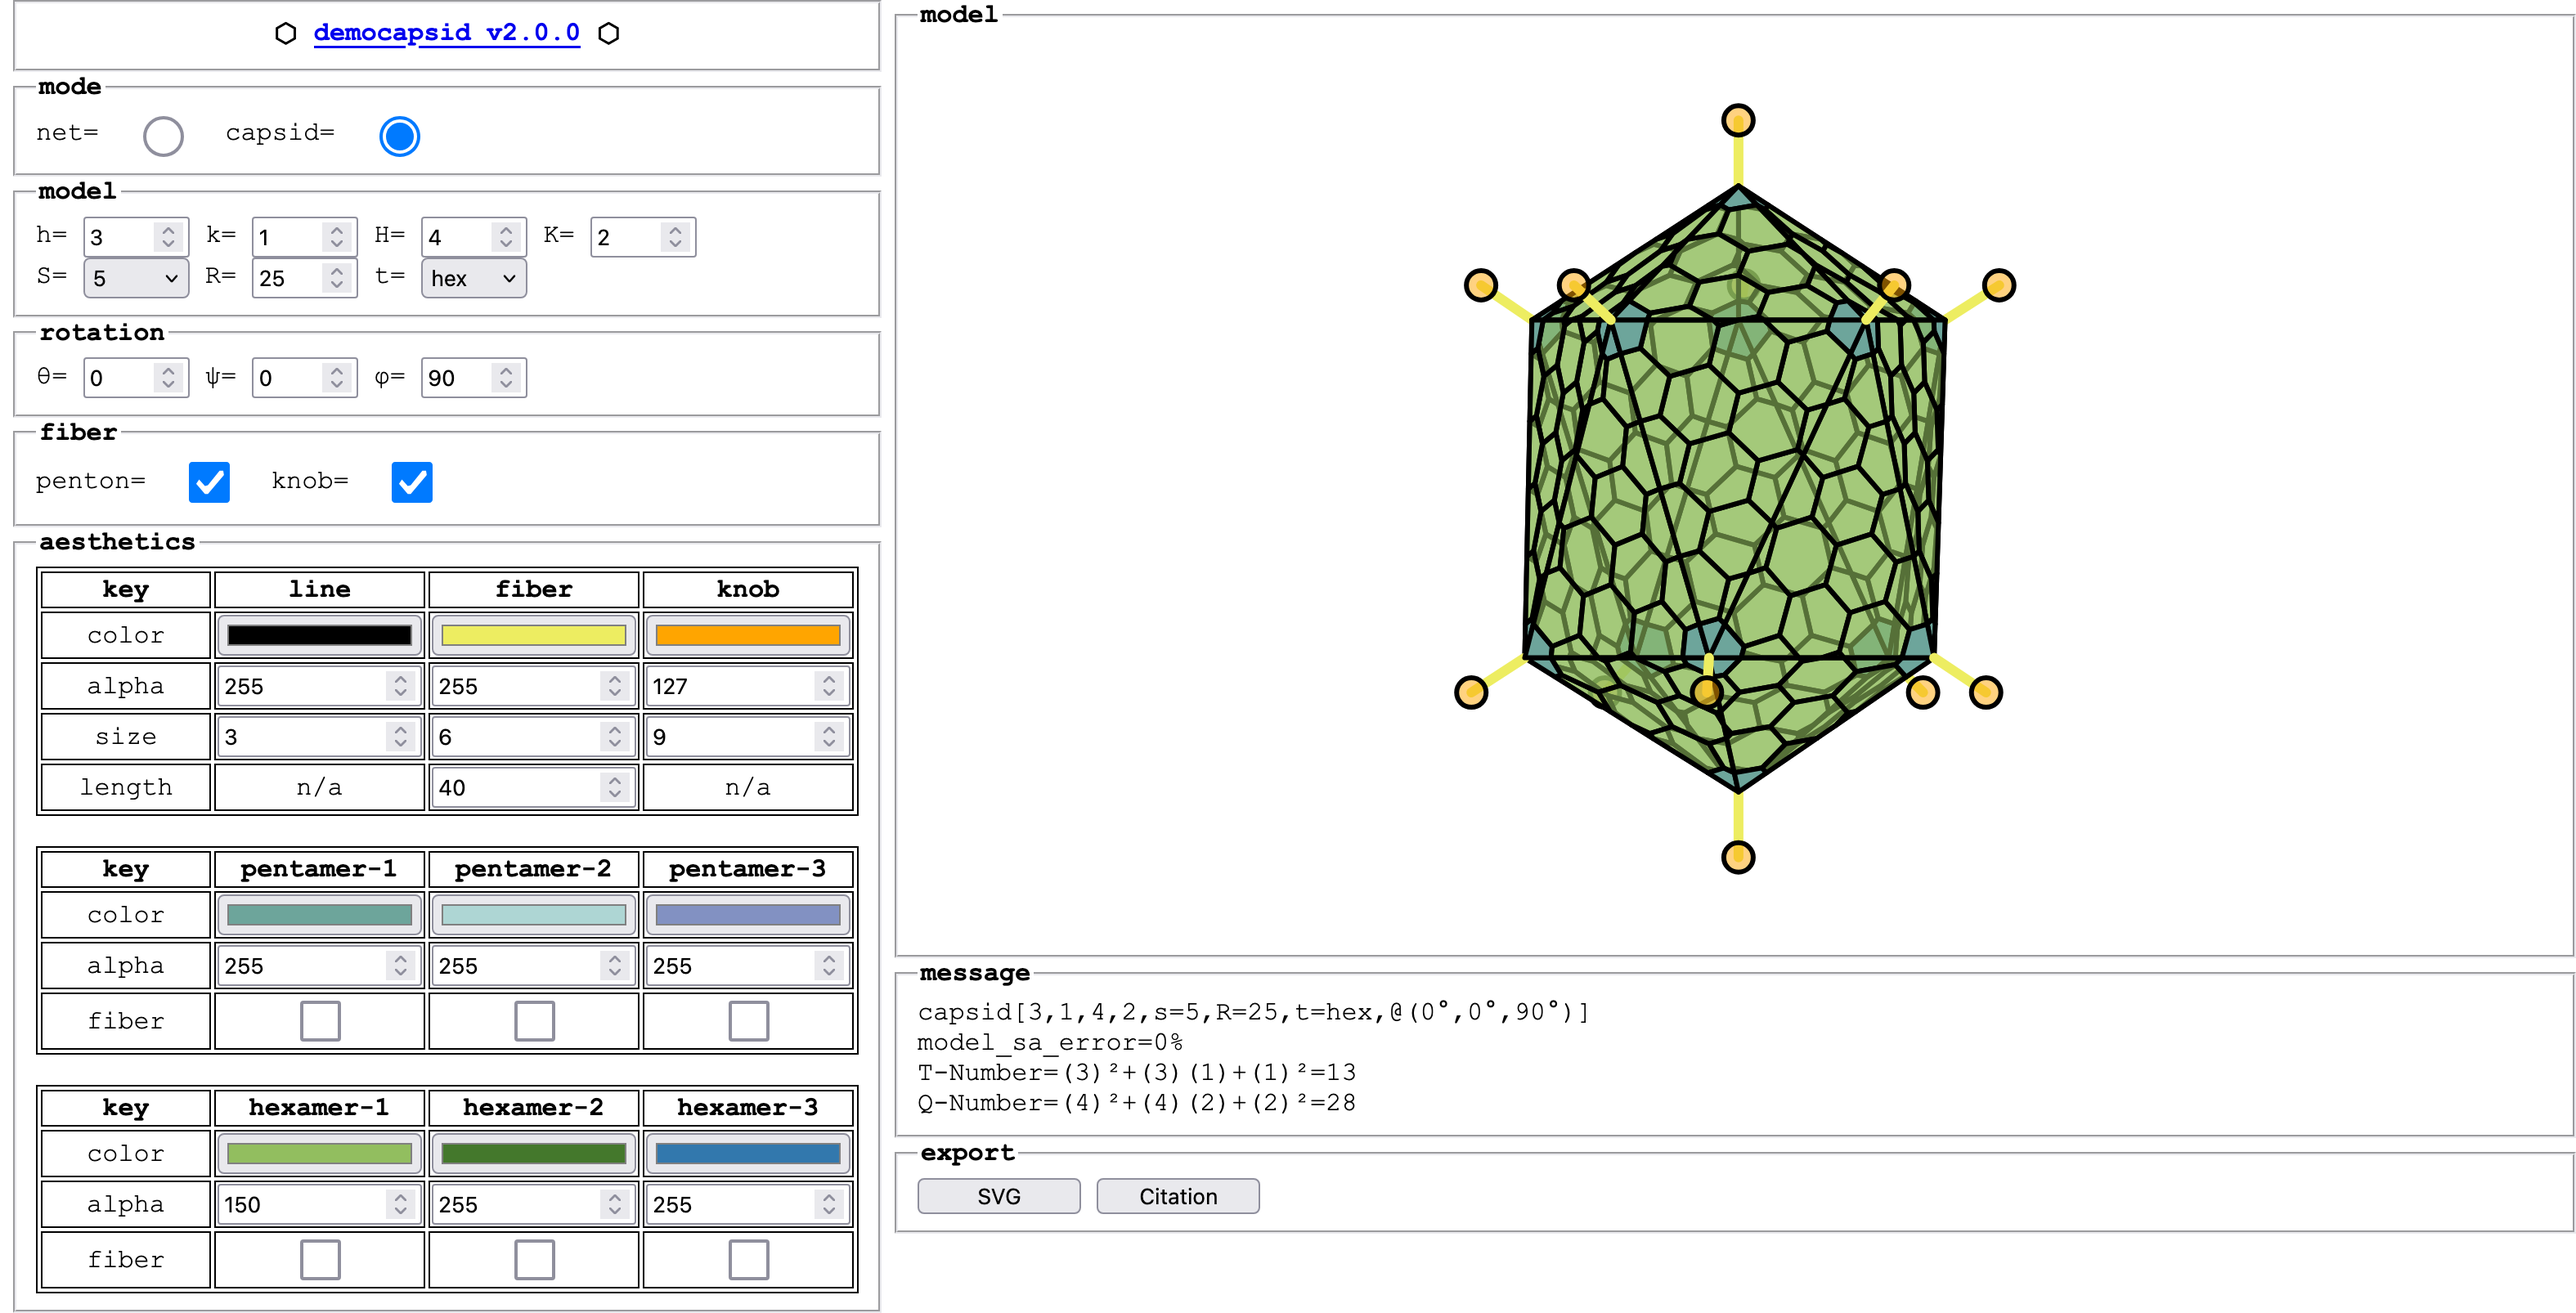
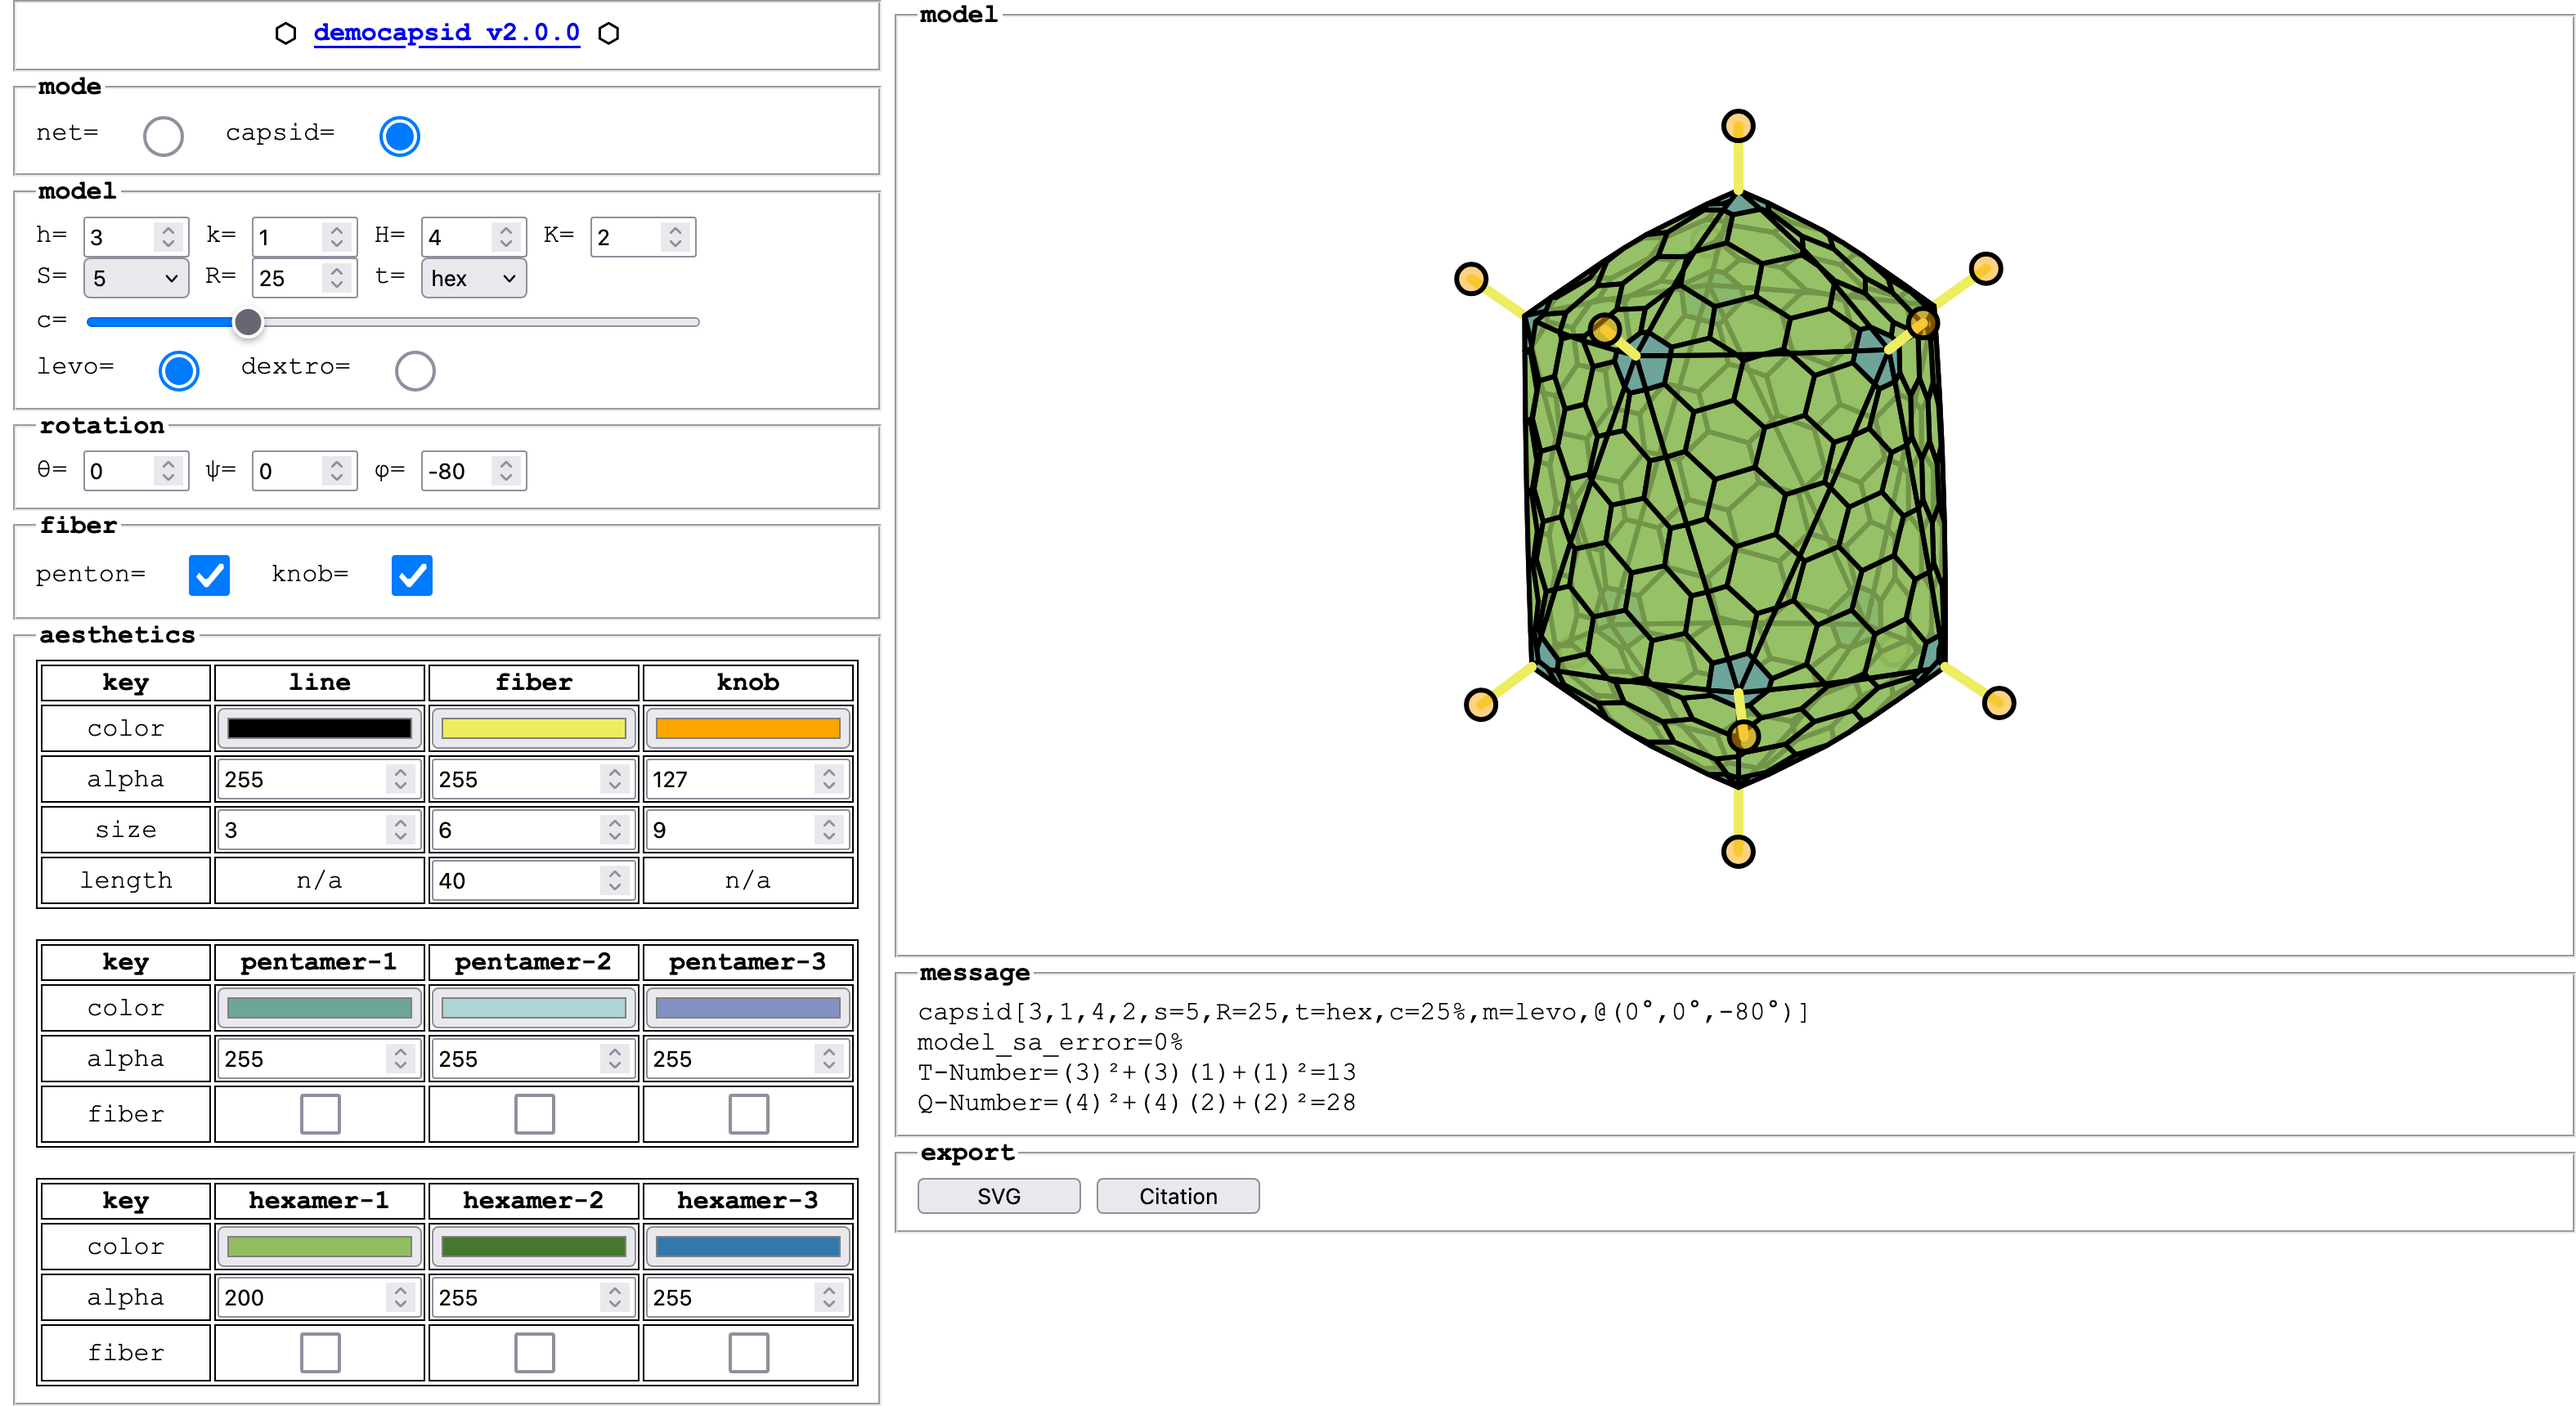
bump version

diff --git a/app.html b/app.html
@@ -113,7 +113,7 @@
         <section class="layout">
             <div class="sidebar">
                 <fieldset style="text-align: center">
-                    <b>&#11041;&nbsp;<a href="https://github.com/dnanto/democapsid">democapsid v2.0.0</a>&nbsp;&#11041;</b>
+                    <b>&#11041;&nbsp;<a href="https://github.com/dnanto/democapsid">democapsid v2.1.0</a>&nbsp;&#11041;</b>
                 </fieldset>
                 <fieldset>
                     <legend>mode</legend>

diff --git a/README.md b/README.md
@@ -4,7 +4,7 @@ This work implements Caspar-Klug Theory to generate high-quality, vectorized cap
 
 # Run
 
--   Run democapsid (v2.0.0): [https://dnanto.github.io/democapsid/app.html](https://dnanto.github.io/democapsid/app.html).
+-   Run democapsid (v2.1.0): [https://dnanto.github.io/democapsid/app.html](https://dnanto.github.io/democapsid/app.html).
 
 ![screenshot.png](screenshot.png)
 

diff --git a/CHANGELOG.md b/CHANGELOG.md
@@ -1,3 +1,8 @@
+# v2.1.0
+
+-   add spherical models
+-   re-add levo/dextro models
+
 # v2.0.0
 
 -   reimplement and optimize construction algorithms
